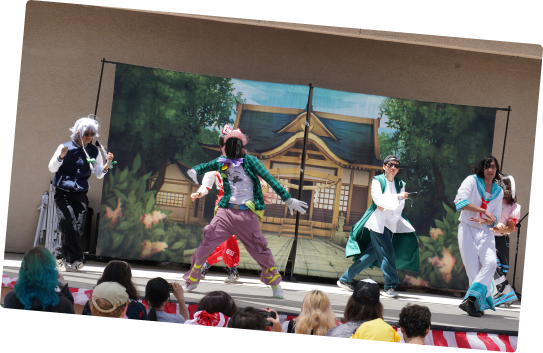
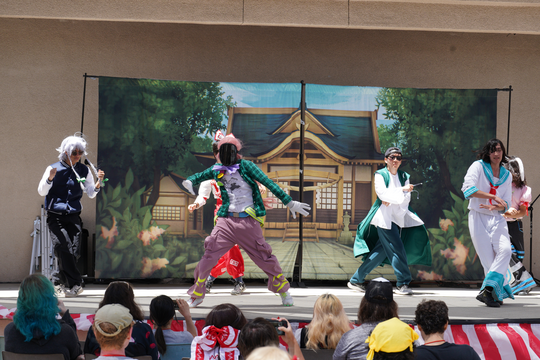
Fix home polaroids

diff --git a/sass/pages/_home.scss b/sass/pages/_home.scss
@@ -657,24 +657,16 @@
   .polaroid-card {
     width: 100%;
     height: 374px;
-    padding: 11px 11px 52px 11px;
+    padding: 11px 12px 54px 11px;
     box-shadow: 3px 4px 13px 0 rgba(99, 15, 40, 0.15);
     filter: none;
     display: block;
+    transform: rotate(5deg);
     transition:
       transform 300ms ease-out,
       box-shadow 300ms ease-out;
-  }
-
-  @each $row, $angle in (1: 5.13deg, 2: -5.13deg, 3: 5.13deg, 4: -5.13deg) {
-    .pillar-row-#{$row} .polaroid-card {
-      transform: rotate($angle);
-      &:hover {
-        transform: rotate($angle);
-      }
-    }
-    .pillar-row-#{$row} .polaroid-img {
-      transform: rotate(-$angle);
+    &:hover {
+      transform: rotate(5deg);
     }
   }
 
@@ -866,7 +858,7 @@
     .polaroid-card {
       width: 541px;
       height: 374px;
-      padding: 11px 11px 52px 11px;
+      padding: 11px 12px 54px 11px;
     }
   }
 }
@@ -1009,7 +1001,7 @@
     .polaroid-card {
       width: 282px;
       height: 374px;
-      padding: 11px 11px 52px 11px;
+      padding: 11px 12px 54px 11px;
     }
     .home-special-module {
       width: calc(100% - 62px);
